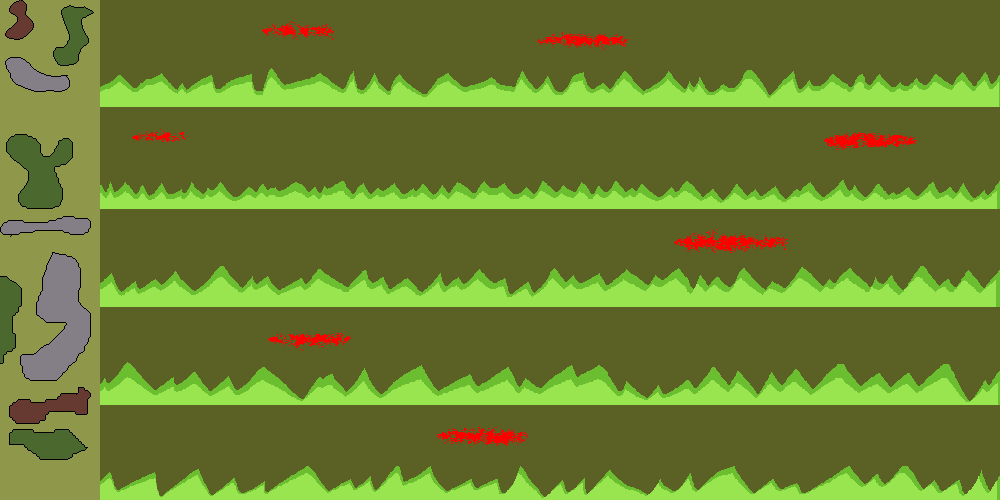
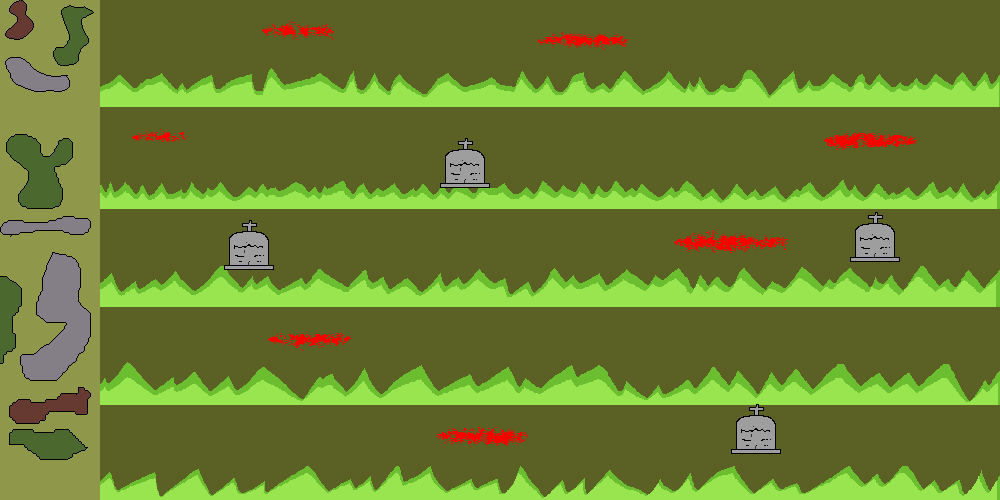
add example of background

diff --git a/sketch.js b/sketch.js
@@ -5,10 +5,10 @@ let game_wall;
 //ai
 let ai;
 let ai_1, ai_2, ai_3, ai_4;
-let ai_1_lastTalk =true;
-let ai_2_lastTalk =true;
-let ai_3_lastTalk =true;
-let ai_4_lastTalk =true;
+let ai_1_lastTalk = true;
+let ai_2_lastTalk = true;
+let ai_3_lastTalk = true;
+let ai_4_lastTalk = true;
 
 //game_mode
 let game_mode;
@@ -65,7 +65,7 @@ let day1_img, day2_img, day3_img, day4_img, day5_img;
 //check AI is picked or not once
 let ai_picked = false;
 
-let check_keyIsPressed= false; 
+let check_keyIsPressed = false;
 
 //This is for ai_bullet 
 let ai_1_isShoot = true;
@@ -136,7 +136,7 @@ function setup()
 
 function draw()
 {
-    
+
     background( 110 );
     //console.log(frameCount)
     //console.log(ready_for_day3)
@@ -146,11 +146,11 @@ function draw()
         main_menu();
     }
 
-    if( game_mode == HOW_TO_PLAY)
+    if ( game_mode == HOW_TO_PLAY )
     {
         howToPlay();
     }
-    if(game_mode == STORY)
+    if ( game_mode == STORY )
     {
         story();
     }
@@ -189,7 +189,7 @@ function draw()
 
         //print the score in canvas.
         push();
-        textSize(13);
+        textSize( 13 );
         text( "your score is " + score + " !", width - 200, 10 );
         pop();
     }
@@ -212,13 +212,17 @@ function draw()
     if ( game_mode == GAME_OVER )
     {
         game_over();
-        
+
     }
 
-    let zombie_day1_length = zombies_day1_wave1.length + zombies_day1_wave2.length + zombies_day1_wave3.length + zombies_day1_wave4 + zombies_day1_wave5;
-    let zombie_day2_length = zombies_day2_wave1.length + zombies_day2_wave2.length + zombies_day2_wave3.length + zombies_day2_wave4;
-    let zombie_day3_length = zombies_day3_wave1.length + zombies_day3_wave2.length + zombies_day3_wave3.length + zombies_day3_wave4;
-    let zombie_day4_length = zombies_day4_wave1.length + zombies_day4_wave2.length + zombies_day4_wave3.length + zombies_day4_wave4;
+    let zombie_day1_length = zombies_day1_wave1.length + zombies_day1_wave2.length + zombies_day1_wave3.length +
+        zombies_day1_wave4 + zombies_day1_wave5;
+    let zombie_day2_length = zombies_day2_wave1.length + zombies_day2_wave2.length + zombies_day2_wave3.length +
+        zombies_day2_wave4;
+    let zombie_day3_length = zombies_day3_wave1.length + zombies_day3_wave2.length + zombies_day3_wave3.length +
+        zombies_day3_wave4;
+    let zombie_day4_length = zombies_day4_wave1.length + zombies_day4_wave2.length + zombies_day4_wave3.length +
+        zombies_day4_wave4;
 
     //if there are no zombie on day1 then day2 start!
     if ( zombie_day1_length <= 0 && game_mode != GAME_OVER )
@@ -229,11 +233,11 @@ function draw()
             //clear();
             //game_mode = INTERMISSION;
             cursor();
-            if( ai_picked == false )
+            if ( ai_picked == false )
             {
                 push();
-                textSize(20);
-                fill("black")
+                textSize( 20 );
+                fill( "black" )
                 text( " We're out of water and food. Sacrifice one for the next stage.", width / 3, height / 2 );
                 pop();
                 pick_ai();
@@ -242,7 +246,7 @@ function draw()
             else
             {
                 clear();
-                background(110);
+                background( 110 );
                 text( "Press any key to start your next day survival.", width / 2, height / 2 );
                 ai_last_talk();
             }
@@ -252,7 +256,7 @@ function draw()
             game_mode = GAME_START;
             day2_fadeout_img();
             zombie_day2_draw();
-            
+
         }
     }
 
@@ -264,11 +268,11 @@ function draw()
             //clear();
             //game_mode = INTERMISSION;
             cursor();
-            if( ai_picked == false )
+            if ( ai_picked == false )
             {
                 push();
-                textSize(20);
-                fill("black")
+                textSize( 20 );
+                fill( "black" )
                 text( " We're out of water and food. Sacrifice one for the next stage.", width / 3, height / 2 );
                 pop();
                 pick_ai();
@@ -277,7 +281,7 @@ function draw()
             else
             {
                 clear();
-                background(110);
+                background( 110 );
                 text( "Press any key to start your next day survival.", width / 2, height / 2 );
                 ai_last_talk();
             }
@@ -298,11 +302,11 @@ function draw()
             //clear();
             //game_mode = INTERMISSION;
             cursor();
-            if( ai_picked == false && game_mode == INTERMISSION )
+            if ( ai_picked == false && game_mode == INTERMISSION )
             {
                 push();
-                textSize(20);
-                fill("black")
+                textSize( 20 );
+                fill( "black" )
                 text( " We're out of water and food. Sacrifice one for the next stage.", width / 3, height / 2 );
                 pop();
                 pick_ai();
@@ -311,13 +315,13 @@ function draw()
             else
             {
                 clear();
-                background(110);
+                background( 110 );
                 text( "Press any key to start your next day survival.", width / 2, height / 2 );
                 ai_last_talk();
             }
         }
         if ( ready_for_day4 )
-        { 
+        {
             game_mode = GAME_START;
             day4_fadeout_img();
             zombie_day4_draw();
@@ -337,25 +341,27 @@ function bullet_check()
         text( "press r to reload!", 40, height / 2 + 30 )
     }
 }
+
 function ai_last_talk()
 {
-    if(ai_1_lastTalk==false) text('testing ai1',width/2,height/5);
-    if(ai_2_lastTalk==false) text('testing ai2',width/2,height/5);
-    if(ai_3_lastTalk==false) text('testing ai3',width/2,height/5);
-    if(ai_4_lastTalk==false) text('testing ai4',width/2,height/5);
+    if ( ai_1_lastTalk == false ) text( 'testing ai1', width / 2, height / 5 );
+    if ( ai_2_lastTalk == false ) text( 'testing ai2', width / 2, height / 5 );
+    if ( ai_3_lastTalk == false ) text( 'testing ai3', width / 2, height / 5 );
+    if ( ai_4_lastTalk == false ) text( 'testing ai4', width / 2, height / 5 );
+
 }
 
 //draw ai to pick when the game_mode is INTERMISSION
 function pick_ai()
 {
     if ( ai_1_survived ) ai_1.draw();
-    else image(tombstone_img,ai_1.x,ai_1.y);
+    else image( tombstone_img, ai_1.x, ai_1.y );
     if ( ai_2_survived ) ai_2.draw();
-    else image(tombstone_img,ai_2.x,ai_2.y);
+    else image( tombstone_img, ai_2.x, ai_2.y );
     if ( ai_3_survived ) ai_3.draw();
-    else image(tombstone_img,ai_3.x,ai_3.y);
+    else image( tombstone_img, ai_3.x, ai_3.y );
     if ( ai_4_survived ) ai_4.draw();
-    else image(tombstone_img,ai_4.x,ai_4.y);
+    else image( tombstone_img, ai_4.x, ai_4.y );
 }
 
 function pick_and_ban()
@@ -365,19 +371,19 @@ function pick_and_ban()
         if ( ai_1.x - 30 < mouseX && mouseX < ai_1.x + 30 && ai_1.y - 30 < mouseY && mouseY < ai_1.y + 30 )
         {
             circle( ai_1.x, ai_1.y, 10 );
-            text("My family is waiting. Please save me! \n",ai_1.x+50, ai_1.y);
+            text( "My family is waiting. Please save me! \n", ai_1.x + 50, ai_1.y );
             push();
-            fill('black');
-            text("\nbullet damage: " + ai_1_damage, ai_1.x+50, ai_1.y);
-            text("\n\nbullet speed: " + ai_1_speed, ai_1.x+50, ai_1.y);
-            text("\n\n\nbullet speed: 12", ai_1.x+50, ai_1.y);
+            fill( 'black' );
+            text( "\nbullet damage: " + ai_1_damage, ai_1.x + 50, ai_1.y );
+            text( "\n\nbullet speed: " + ai_1_speed, ai_1.x + 50, ai_1.y );
+            text( "\n\n\nbullet speed: 12", ai_1.x + 50, ai_1.y );
             pop();
             if ( mouseIsPressed )
             {
                 ai_1_isShoot = false;
                 ai_1_survived = false;
                 ai_picked = true;
-                ai_1_lastTalk =false;
+                ai_1_lastTalk = false;
 
             }
         }
@@ -388,19 +394,19 @@ function pick_and_ban()
         if ( ai_2.x - 30 < mouseX && mouseX < ai_2.x + 30 && ai_2.y - 30 < mouseY && mouseY < ai_2.y + 30 )
         {
             circle( ai_2.x, ai_2.y, 10 );
-            text("I am ready to die. I want to save others",ai_2.x+50, ai_2.y);
+            text( "I am ready to die. I want to save others", ai_2.x + 50, ai_2.y );
             push();
-            fill('black');
-            text("\nbullet damage: " + ai_2_damage, ai_2.x+50, ai_2.y);
-            text("\n\nrate of fire: " + ai_2_speed, ai_2.x+50, ai_2.y);
-            text("\n\n\nbullet speed: 13", ai_2.x+50, ai_2.y);
+            fill( 'black' );
+            text( "\nbullet damage: " + ai_2_damage, ai_2.x + 50, ai_2.y );
+            text( "\n\nrate of fire: " + ai_2_speed, ai_2.x + 50, ai_2.y );
+            text( "\n\n\nbullet speed: 13", ai_2.x + 50, ai_2.y );
             pop();
             if ( mouseIsPressed )
             {
                 ai_2_isShoot = false;
                 ai_2_survived = false;
                 ai_picked = true;
-                ai_2_lastTalk =false;
+                ai_2_lastTalk = false;
             }
         }
     }
@@ -410,19 +416,19 @@ function pick_and_ban()
         if ( ai_3.x - 30 < mouseX && mouseX < ai_3.x + 30 && ai_3.y - 30 < mouseY && mouseY < ai_3.y + 30 )
         {
             circle( ai_3.x, ai_3.y, 10 );
-            text("I can kill zombie well.",ai_3.x+50, ai_3.y);
+            text( "I can kill zombie well.", ai_3.x + 50, ai_3.y );
             push();
-            fill('black');
-            text("\nbullet damage: " + ai_3_damage, ai_3.x+50, ai_3.y);
-            text("\n\nrate of fire: " + ai_3_speed, ai_3.x+50, ai_3.y);
-            text("\n\n\nbullet speed: 40", ai_3.x+50, ai_3.y);
+            fill( 'black' );
+            text( "\nbullet damage: " + ai_3_damage, ai_3.x + 50, ai_3.y );
+            text( "\n\nrate of fire: " + ai_3_speed, ai_3.x + 50, ai_3.y );
+            text( "\n\n\nbullet speed: 40", ai_3.x + 50, ai_3.y );
             pop();
             if ( mouseIsPressed )
             {
                 ai_3_isShoot = false;
                 ai_3_survived = false;
                 ai_picked = true;
-                ai_3_lastTalk =false;
+                ai_3_lastTalk = false;
             }
         }
     }
@@ -432,19 +438,19 @@ function pick_and_ban()
         if ( ai_4.x - 30 < mouseX && mouseX < ai_4.x + 30 && ai_4.y - 30 < mouseY && mouseY < ai_4.y + 30 )
         {
             circle( ai_4.x, ai_4.y, 10 );
-            text("PLEASE DON'T KILL ME. I am good in programing",ai_4.x+50, ai_4.y);
+            text( "PLEASE DON'T KILL ME. I am good in programing", ai_4.x + 50, ai_4.y );
             push();
-            fill('black');
-            text("\nbullet damage: " + ai_4_damage, ai_4.x+50, ai_4.y);
-            text("\n\nrate of fire: " + ai_4_speed, ai_4.x+50, ai_4.y);
-            text("\n\n\nbullet speed: 30", ai_4.x+50, ai_4.y);
+            fill( 'black' );
+            text( "\nbullet damage: " + ai_4_damage, ai_4.x + 50, ai_4.y );
+            text( "\n\nrate of fire: " + ai_4_speed, ai_4.x + 50, ai_4.y );
+            text( "\n\n\nbullet speed: 30", ai_4.x + 50, ai_4.y );
             pop();
             if ( mouseIsPressed )
             {
                 ai_4_isShoot = false;
                 ai_4_survived = false;
                 ai_picked = true;
-                ai_4_lastTalk =false;
+                ai_4_lastTalk = false;
             }
         }
     }
